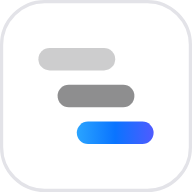
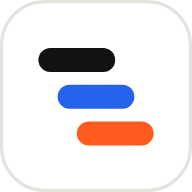
[site] New brand on the landing page: Satoshi Black 'Rundown', the Steps mark in ink, cobalt and orange; orange highlights and buttons, cobalt links, the hero's three agents in the step colours; brand/ and site/img rebuilt

Changed region(s): [[0.375, 0.625, 0.8125, 0.7812], [0.2812, 0.4375, 0.7188, 0.5938], [0.1875, 0.25, 0.625, 0.375]]

diff --git a/site/index.html b/site/index.html
@@ -11,24 +11,24 @@
 <meta property="og:description" content="Let the agents work. Keep your brain in the loop.">
 <meta name="theme-color" content="#ffffff">
 <link rel="preconnect" href="https://api.fontshare.com">
-<link href="https://api.fontshare.com/v2/css?f[]=cabinet-grotesk@500,700,800&f[]=satoshi@1&display=swap" rel="stylesheet">
+<link href="https://api.fontshare.com/v2/css?f[]=satoshi@1&display=swap" rel="stylesheet">
 <style>
 :root {
   --claude: #d97757;   /* Claude orange, for the install section */
   --bg: #ffffff;
-  --alt: #f5f5f7;
-  --text: #1d1d1f;
+  --alt: #f7f7f4;
+  --text: #121214;
   --muted: #6e6e73;
   --faint: #a1a1a6;
-  --line: #e3e3e8;
-  --blue: #0071e3;
+  --line: #e4e4de;
+  --blue: #2563eb;     /* cobalt: links and focus */
+  --orange: #ff5b1f;   /* signal: the lead step, highlights and the main button */
   --cool: #b4c2d4;   /* unchanged file */
   --warm: #ff9f0a;   /* changed recently */
   --hot: #ff375f;    /* agent editing now */
-  --grad: linear-gradient(95deg, #2aa4ff 0%, #0a74ff 50%, #4f5bff 100%);  /* brand blue */
   --risk: #d93025;
   --nvidia: #76b900;
-  --display: "Cabinet Grotesk", -apple-system, system-ui, sans-serif;
+  --display: "Satoshi", -apple-system, system-ui, sans-serif;
   --body: "Satoshi", -apple-system, system-ui, sans-serif;
   --mono: ui-monospace, "SF Mono", Menlo, monospace;
   --ease: cubic-bezier(.2, .7, .1, 1);
@@ -40,7 +40,7 @@ body {
   overflow-x: clip;
 }
 a { color: inherit; text-decoration: none; }
-h1, h2, h3 { font-family: var(--display); margin: 0; font-weight: 800; letter-spacing: -0.035em; }
+h1, h2, h3 { font-family: var(--display); margin: 0; font-weight: 900; letter-spacing: -0.035em; }
 p { margin: 0; }
 h1, h2, h3 { text-wrap: balance; }
 .sub, p { text-wrap: pretty; }
@@ -58,7 +58,7 @@ nav {
   border-bottom: 1px solid rgba(0,0,0,.06);
 }
 nav .wrap { display: flex; align-items: center; height: 100%; gap: 28px; }
-.logo { display: flex; align-items: center; gap: 8px; font: 800 19px var(--display); letter-spacing: -0.02em; }
+.logo { display: flex; align-items: center; gap: 8px; font: 900 19px var(--display); letter-spacing: -0.02em; }
 .logo svg { width: 20px; height: 20px; }
 .logo svg.mark { width: auto; height: 22px; }
 nav .links { display: flex; gap: 26px; margin-left: auto; font-size: 13px; color: var(--muted); font-weight: 500; }
@@ -66,8 +66,8 @@ nav .links a:hover { color: var(--text); }
 
 /* ---------- buttons ---------- */
 .btns { display: flex; justify-content: center; flex-wrap: wrap; gap: 14px 28px; align-items: center; margin-top: 40px; }
-.btn { background: var(--blue); color: #fff; padding: 12px 24px; border-radius: 999px; font-weight: 500; font-size: 17px; transition: background .2s; }
-.btn:hover { background: #0077ed; }
+.btn { background: var(--orange); color: var(--text); padding: 12px 24px; border-radius: 999px; font-weight: 600; font-size: 17px; transition: background .2s; }
+.btn:hover { background: #ff7440; }
 .btn.small { padding: 5px 14px; font-size: 13px; margin-left: 4px; }
 .more { color: var(--blue); font-size: 17px; font-weight: 500; }
 .more::after { content: " ›"; }
@@ -90,7 +90,7 @@ nav .links a:hover { color: var(--text); }
 .hero-type h1 .line { display: block; overflow: hidden; padding-bottom: .06em; }
 .hero-type h1 .line span { display: inline-block; transform: translateY(105%); animation: rise 1.2s var(--ease) forwards; }
 .hero-type h1 .line:nth-child(2) span { animation-delay: .12s; }
-.hero-type h1 .grad { background: var(--grad); -webkit-background-clip: text; background-clip: text; color: transparent; }
+.hero-type h1 .grad { color: var(--orange); }
 .hero-type p { font: 500 clamp(20px, 2.4vw, 28px)/1.3 var(--body); color: var(--muted); margin-top: 28px; opacity: 0; animation: fade 1s .6s var(--ease) forwards; }
 @keyframes rise { to { transform: none; } }
 @keyframes fade { to { opacity: 1; } }
@@ -102,7 +102,7 @@ nav .links a:hover { color: var(--text); }
 .hero-end .said { font-size: clamp(17px, 1.7vw, 20px); color: var(--muted); font-weight: 500; margin-top: 14px; }
 .hcap {
   position: absolute; left: 0; right: 0; bottom: 13vh; padding: 0 24px; text-align: center; pointer-events: none; opacity: 0;
-  font: 800 clamp(30px, 4.6vw, 60px)/1.05 var(--display); letter-spacing: -0.035em; text-wrap: balance;
+  font: 900 clamp(30px, 4.6vw, 60px)/1.05 var(--display); letter-spacing: -0.035em; text-wrap: balance;
   text-shadow: 0 0 18px #fff, 0 0 36px #fff, 0 0 8px #fff; will-change: opacity, transform;
 }
 .legend { display: flex; justify-content: center; gap: 22px; margin-top: 22px; font-size: 14px; color: var(--muted); font-weight: 500; flex-wrap: wrap; }
@@ -112,8 +112,8 @@ nav .links a:hover { color: var(--text); }
 #stats { padding: 88px 0 80px; text-align: center; }
 .stats-head { font-size: clamp(34px, 4.8vw, 64px); line-height: 1; }
 .stats3 { display: grid; grid-template-columns: repeat(3, 1fr); gap: 56px; margin-top: 52px; }
-.stat3 .n { font: 800 clamp(56px, 6.4vw, 84px)/1 var(--display); letter-spacing: -0.045em; white-space: nowrap; }
-.stat3 .n.warm { background: var(--grad); -webkit-background-clip: text; background-clip: text; color: transparent; }
+.stat3 .n { font: 900 clamp(56px, 6.4vw, 84px)/1 var(--display); letter-spacing: -0.045em; white-space: nowrap; }
+.stat3 .n.warm { color: var(--orange); }
 .stat3 p { color: var(--muted); font-size: 19px; font-weight: 500; margin: 14px auto 0; max-width: 22ch; }
 .stat3 p b { color: var(--text); font-weight: 500; }
 .study { display: block; margin: 20px auto 0; padding-top: 14px; border-top: 1px solid var(--line); max-width: 30ch; font-size: 13.5px; line-height: 1.4; color: var(--muted); font-weight: 500; }
@@ -128,7 +128,7 @@ nav .links a:hover { color: var(--text); }
   max-width: 92vw;
 }
 .ask-pill .q { width: 34px; height: 34px; border-radius: 50%; background: linear-gradient(135deg, var(--warm), var(--hot)); flex: none; }
-.caret { display: inline-block; width: 2px; height: 1.1em; background: var(--blue); vertical-align: -0.15em; margin-left: 2px; animation: blink 1s steps(1) infinite; }
+.caret { display: inline-block; width: 2px; height: 1.1em; background: var(--orange); vertical-align: -0.15em; margin-left: 2px; animation: blink 1s steps(1) infinite; }
 @keyframes blink { 50% { opacity: 0; } }
 
 /* tasks: one agent's work outside code, as a track of stops with a window */
@@ -158,7 +158,7 @@ nav .links a:hover { color: var(--text); }
 .tk-line li.fail b { color: var(--risk); }
 .tk-line li.fail.on::before { background: var(--risk); animation: tk-err 1.4s ease-out 1; }
 @keyframes tk-err { 0% { box-shadow: 0 0 0 0 rgba(217,48,37,.55); } 100% { box-shadow: 0 0 0 14px rgba(217,48,37,0); } }
-.tk-agent { position: absolute; left: 6px; top: 0; width: 16px; height: 16px; border-radius: 50%; background: var(--blue); box-shadow: 0 0 0 5px rgba(0,113,227,.18); transition: top .5s var(--ease), background .3s, box-shadow .3s; z-index: 1; pointer-events: none; }
+.tk-agent { position: absolute; left: 6px; top: 0; width: 16px; height: 16px; border-radius: 50%; background: var(--blue); box-shadow: 0 0 0 5px rgba(37,99,235,.18); transition: top .5s var(--ease), background .3s, box-shadow .3s; z-index: 1; pointer-events: none; }
 .tk-agent.err { background: var(--risk); box-shadow: 0 0 0 5px rgba(217,48,37,.2); }
 
 .tk-win { background: #fff; border-radius: 20px; overflow: hidden; box-shadow: 0 1px 2px rgba(0,0,0,.04), 0 30px 80px -30px rgba(0,0,0,.22); transition: box-shadow .3s; }
@@ -205,7 +205,7 @@ nav .links a:hover { color: var(--text); }
 .web { flex: 1; background: #fff; display: flex; flex-direction: column; }
 .web .url { margin: 12px 14px 0; padding: 7px 14px; border-radius: 999px; background: #f0f0f3; font: 13px var(--mono); color: var(--muted); }
 .web .doc { padding: 22px 30px; }
-.web h4 { margin: 0; font: 800 26px/1.1 var(--display); letter-spacing: -0.02em; }
+.web h4 { margin: 0; font: 900 26px/1.1 var(--display); letter-spacing: -0.02em; }
 .web p { margin-top: 10px; color: var(--muted); font-size: 14.5px; max-width: 46ch; }
 .web .hl { background: #eeeefe; border-left: 3px solid #5b5bd6; padding: 10px 14px; margin-top: 14px; border-radius: 4px; color: var(--text); font: 13px/1.6 var(--mono); }
 
@@ -263,7 +263,7 @@ nav .links a:hover { color: var(--text); }
 .why3 p { color: #a1a1a6; margin-top: 10px; font-weight: 500; }
 .nums { display: grid; grid-template-columns: repeat(3, 1fr); gap: 64px 48px; margin-top: 110px; }
 .nums:empty { display: none; }
-.num .v { font: 800 clamp(48px, 5.5vw, 76px)/1 var(--display); letter-spacing: -0.045em; color: var(--nvidia); }
+.num .v { font: 900 clamp(48px, 5.5vw, 76px)/1 var(--display); letter-spacing: -0.045em; color: var(--nvidia); }
 .num .k { color: #a1a1a6; font-weight: 500; margin-top: 12px; }
 .brev-foot { margin-top: 80px; display: flex; justify-content: center; flex-wrap: wrap; gap: 10px 28px; font-size: 14px; color: #86868b; font-weight: 500; }
 .brev-foot a { color: var(--nvidia); }
@@ -277,7 +277,7 @@ html { scroll-padding-top: 96px; }
 .wl-mini { display: flex; align-items: center; gap: 8px; }
 .wl-mini input { width: 190px; height: 26px; border: 1px solid #d2d2d7; border-radius: 999px; padding: 0 12px; background: #fff; color: var(--text); font: 500 13px var(--body); outline: none; transition: border-color .2s, box-shadow .2s; }
 .wl-mini input::placeholder { color: var(--faint); }
-.wl-mini input:focus { border-color: var(--blue); box-shadow: 0 0 0 3px rgba(0,113,227,.15); }
+.wl-mini input:focus { border-color: var(--blue); box-shadow: 0 0 0 3px rgba(37,99,235,.15); }
 .wl-mini button { border: 0; background: none; padding: 0; color: var(--blue); font: 600 13.5px var(--body); cursor: pointer; white-space: nowrap; }
 .wl-mini button::after { content: " ›"; }
 .wl-mini button:hover { text-decoration: underline; }
@@ -291,14 +291,14 @@ nav { top: 40px; }
 
 /* roadmap */
 .road { position: relative; display: grid; grid-template-columns: repeat(3, 1fr); gap: 56px; margin-top: 72px; text-align: left; }
-.road::before { content: ""; position: absolute; left: 0; right: 0; top: 7px; height: 2px; background: linear-gradient(90deg, var(--text) 0 20%, #2aa4ff 45%, #4f5bff 60%, var(--line) 85%); }
+.road::before { content: ""; position: absolute; left: 0; right: 0; top: 7px; height: 2px; background: linear-gradient(90deg, var(--text) 0 20%, var(--blue) 42%, var(--orange) 62%, var(--line) 85%); }
 .road > div { position: relative; }
 .road .dot { display: block; position: relative; z-index: 1; width: 16px; height: 16px; border-radius: 50%; background: #fff; border: 2px solid var(--line); box-sizing: border-box; }
 .road .now .dot { background: var(--text); border-color: var(--text); }
-.road .next .dot { background: #0a74ff; border-color: #0a74ff; animation: road-pulse 2.2s ease-out infinite; }
-@keyframes road-pulse { 0% { box-shadow: 0 0 0 0 rgba(10,116,255,.45); } 100% { box-shadow: 0 0 0 16px rgba(10,116,255,0); } }
+.road .next .dot { background: var(--orange); border-color: var(--orange); animation: road-pulse 2.2s ease-out infinite; }
+@keyframes road-pulse { 0% { box-shadow: 0 0 0 0 rgba(255,91,31,.45); } 100% { box-shadow: 0 0 0 16px rgba(255,91,31,0); } }
 .road h3 { font-size: clamp(28px, 3vw, 38px); margin-top: 26px; letter-spacing: -0.03em; }
-.road .next h3 { background: var(--grad); -webkit-background-clip: text; background-clip: text; color: transparent; }
+.road .next h3 { color: var(--orange); }
 .road .when { color: var(--muted); font-weight: 500; margin-top: 4px; }
 .road ul { list-style: none; margin: 22px 0 0; padding: 0; }
 .road li { padding: 12px 0; border-top: 1px solid var(--line); font-weight: 500; line-height: 1.4; }
@@ -308,8 +308,8 @@ nav { top: 40px; }
 .road li small a::after { content: " ›"; }
 .wl-big { display: flex; justify-content: center; gap: 10px; margin: 96px auto 0; max-width: 520px; }
 .wl-big input { flex: 1; min-width: 0; height: 52px; border: 1px solid var(--line); border-radius: 999px; padding: 0 22px; font: 500 17px var(--body); background: #fff; outline: none; transition: border-color .2s, box-shadow .2s; }
-.wl-big input:focus { border-color: var(--blue); box-shadow: 0 0 0 4px rgba(0,113,227,.15); }
-.wl-big .btn { border: 0; cursor: pointer; font-family: var(--body); background: var(--grad); }
+.wl-big input:focus { border-color: var(--blue); box-shadow: 0 0 0 4px rgba(37,99,235,.15); }
+.wl-big .btn { border: 0; cursor: pointer; font-family: var(--body); background: var(--orange); }
 .wl-note { margin-top: 16px; color: var(--muted); font-size: 14px; font-weight: 500; }
 .wl-big + .wl-note:empty { display: none; }
 
@@ -320,7 +320,7 @@ nav { top: 40px; }
 .closing { padding: 160px 0 150px; }
 .closing h2 { font-size: clamp(52px, 9vw, 140px); line-height: .92; letter-spacing: -0.05em; }
 .closing h2 span { display: block; }
-.closing h2 .grad { background: var(--grad); -webkit-background-clip: text; background-clip: text; color: transparent; }
+.closing h2 .grad { color: var(--orange); }
 .closing .btns { margin-top: 56px; }
 .btn.big { font-size: 20px; padding: 17px 36px; }
 .btn.pending { opacity: .5; pointer-events: none; }
@@ -348,7 +348,7 @@ footer a:hover { text-decoration: underline; }
   .wl-mini, .has-waitlist .band .dim { display: none; }
   .has-waitlist .band-link { display: inline; }
   .road { grid-template-columns: 1fr; gap: 40px; margin-top: 64px; padding-left: 36px; }
-  .road::before { left: 7px; right: auto; top: 8px; bottom: 0; width: 2px; height: auto; background: linear-gradient(180deg, var(--text) 0 20%, #2aa4ff 40%, #4f5bff 60%, var(--line) 85%); }
+  .road::before { left: 7px; right: auto; top: 8px; bottom: 0; width: 2px; height: auto; background: linear-gradient(180deg, var(--text) 0 20%, var(--blue) 40%, var(--orange) 60%, var(--line) 85%); }
   .road .dot { position: absolute; left: -36px; top: 8px; }
   .road h3 { margin-top: 0; }
   .wl-big { flex-direction: column; margin-top: 64px; }
@@ -414,9 +414,9 @@ footer a:hover { text-decoration: underline; }
       <g stroke="#ffffff" stroke-opacity=".035"><path d="M70 0V250M140 0V250M420 0V250M490 0V250"/></g>
       <ellipse cx="275" cy="120" rx="210" ry="120" fill="url(#scGlow)"/>
       <rect x="140" y="38" width="270" height="160" rx="5" fill="#fbfbfd"/>
-      <text x="158" y="62" font-family="Cabinet Grotesk, system-ui, sans-serif" font-weight="800" font-size="13" fill="#1d1d1f">A live map of your agents</text>
+      <text x="158" y="62" font-family="Satoshi, system-ui, sans-serif" font-weight="900" font-size="13" fill="#121214">A live map of your agents</text>
       <g stroke="#c9ced9" stroke-width="1.2" fill="none"><path d="M180 110 214 94 250 120 292 100 330 132 366 112M214 94 226 150 270 164 330 132M180 110 196 158 226 150M292 100 302 150 270 164M366 112 380 160 330 132"/></g>
-      <path class="sc-trail" d="M196 158 C230 170 250 128 292 100 S350 126 366 112" fill="none" stroke="#0a84ff" stroke-width="2.4" stroke-linecap="round"/>
+      <path class="sc-trail" d="M196 158 C230 170 250 128 292 100 S350 126 366 112" fill="none" stroke="#ff5b1f" stroke-width="2.4" stroke-linecap="round"/>
       <g fill="#b4c2d4"><circle cx="180" cy="110" r="5"/><circle cx="214" cy="94" r="4"/><circle cx="250" cy="120" r="5"/><circle cx="226" cy="150" r="4"/><circle cx="302" cy="150" r="4"/><circle cx="380" cy="160" r="5"/><circle cx="270" cy="164" r="4"/></g>
       <g fill="#ff9f0a"><circle cx="196" cy="158" r="5"/><circle cx="292" cy="100" r="6"/><circle cx="330" cy="132" r="5"/></g>
       <circle class="sc-hot" cx="366" cy="112" r="6" fill="#ff375f"/><circle cx="366" cy="112" r="6" fill="#ff375f"/>
@@ -448,7 +448,7 @@ footer a:hover { text-decoration: underline; }
 <nav>
   <div class="wrap">
     <a class="logo" href="#hero" aria-label="Rundown">
-      <svg class="mark" viewBox="0 0 578.71 69.20" height="22" role="img" aria-label="Rundown"><defs><linearGradient id="rd-nav" x1="0" y1="0" x2="1" y2="0"><stop offset="0" stop-color="#2AA4FF"/><stop offset="0.5" stop-color="#0A74FF"/><stop offset="1" stop-color="#4F5BFF"/></linearGradient></defs><g transform="translate(-15.38 -23.07) scale(0.9612)"><rect x="16" y="24" width="58" height="16" rx="8" fill="currentColor" fill-opacity="0.22"/><rect x="31" y="52" width="58" height="16" rx="8" fill="currentColor" fill-opacity="0.5"/><rect x="46" y="80" width="58" height="16" rx="8" fill="url(#rd-nav)"/></g><path transform="translate(105.34 67.76)" fill="currentColor" d="M2.5872451171875 -50.2831806640625H20.8909658203125L23.8829658203125 -32.31357421875V0.0H5.896032226562499V-33.352021484375ZM47.396636718749996 -51.0575634765625V-35.69298046875Q44.8270625 -36.22098046875 42.4862646484375 -36.458581542968744Q40.145466796875 -36.696182617187496 38.227062499999995 -36.696182617187496Q34.284625976562495 -36.696182617187496 31.028604492187497 -35.13856005859375Q27.7725830078125 -33.5809375 25.8277744140625 -30.060910644531248Q23.8829658203125 -26.540883789062498 23.8829658203125 -20.680075195312497L20.450998046875 -24.939234374999998Q21.11978515625 -30.324830078124997 22.5189873046875 -35.156021484374996Q23.918189453125 -39.987212890624996 26.329396972656248 -43.709601074218746Q28.740604492187497 -47.431989257812496 32.3662109375 -49.5791806640625Q35.9918173828125 -51.7263720703125 41.1662109375 -51.7263720703125Q42.6622216796875 -51.7263720703125 44.24623242187499 -51.559169921875Q45.830243164062495 -51.3919677734375 47.396636718749996 -51.0575634765625ZM71.70241503906249 1.3903935546875Q64.68002148437499 1.3903935546875 59.69922900390624 -1.5048032226562498Q54.71843652343749 -4.3999999999999995 52.08723974609374 -9.706398925781249Q49.45604296874999 -15.0127978515625 49.45604296874999 -22.158404296875V-50.2831806640625H67.4429765625V-24.763169921874997Q67.4429765625 -19.1838818359375 70.16221093749999 -16.20943994140625Q72.88144531249999 -13.234998046874999 77.93271191406248 -13.234998046874999Q81.7167548828125 -13.234998046874999 84.29519140624998 -14.73982275390625Q86.87362792968749 -16.2446474609375 88.25525048828123 -19.15748828125Q89.636873046875 -22.0703291015625 89.636873046875 -26.1007763671875L95.18080859374999 -23.214404296875Q94.2128193359375 -15.2416171875 90.86002685546875 -9.7416171875Q87.507234375 -4.2416171875 82.57043115234374 -1.4256118164062501Q77.63362792968749 1.3903935546875 71.70241503906249 1.3903935546875ZM92.91045800781248 0.0 89.636873046875 -20.1167119140625V-50.2831806640625H107.62380664062499V-17.353552734375L110.89739160156249 0.0ZM112.58724511718748 -50.2831806640625H130.57417871093747L133.88296582031248 -30.16646875V0.0H115.89603222656248V-32.89442578125ZM152.3102216796875 -51.7263720703125Q159.5614130859375 -51.7263720703125 164.647806640625 -48.83117529296875Q169.7342001953125 -45.935978515624996 172.4357958984375 -40.647180664062496Q175.13739160156248 -35.3583828125 175.13739160156248 -28.124776367187497V0.0H157.1504580078125V-25.48480859375Q157.1504580078125 -31.1520966796875 154.29042578125 -34.12653857421875Q151.4303935546875 -37.100980468749995 146.0799248046875 -37.100980468749995Q142.34867968749998 -37.100980468749995 139.5942431640625 -35.5257568359375Q136.839806640625 -33.950533203125 135.36138623046872 -31.055293457031247Q133.88296582031248 -28.160053710937497 133.88296582031248 -24.182404296875L128.303828125 -27.0687763671875Q129.35981738281248 -35.129563476562495 132.7742109375 -40.61196240234375Q136.1886044921875 -46.094361328125 141.23980664062498 -48.91036669921875Q146.2910087890625 -51.7263720703125 152.3102216796875 -51.7263720703125ZM226.5648837890625 0.0 224.25929882812497 -18.8672021484375 227.33927734374998 -24.9743935546875 224.29450097656246 -32.753552734375 228.51847949218748 -67.75999999999999H247.1742001953125L241.99982812499996 -26.5055634765625L245.18540234374996 0.0ZM230.43686230468748 -25.11519140625Q229.24004296874998 -17.124797851562498 225.60563330078122 -11.149601074218749Q221.97122363281247 -5.174404296875 216.34802148437495 -1.8656064453125Q210.72481933593747 1.44319140625 203.61442578124996 1.44319140625Q196.2576279296875 1.44319140625 190.65202685546873 -1.8832075195312499Q185.04642578124998 -5.2096064453125 181.90482470703122 -11.211202148437499Q178.76322363281247 -17.2127978515625 178.76322363281247 -25.11519140625Q178.76322363281247 -33.1055849609375 181.90482470703122 -39.08957958984375Q185.04642578124998 -45.07357421875 190.65202685546873 -48.399973144531245Q196.2576279296875 -51.7263720703125 203.61442578124996 -51.7263720703125Q210.72481933593747 -51.7263720703125 216.34802148437495 -48.44397314453125Q221.97122363281247 -45.16157421875 225.6496333007812 -39.203978515624996Q229.32804296874997 -33.246382812499995 230.43686230468748 -25.11519140625ZM196.92615722656248 -25.11519140625Q196.92615722656248 -21.366339843749998 198.46617871093747 -18.488701171875Q200.0062001953125 -15.6110625 202.74303564453123 -13.956642089843749Q205.47987109374998 -12.302221679687499 209.03511621093747 -12.302221679687499Q212.678361328125 -12.302221679687499 215.9343935546875 -13.956642089843749Q219.19042578124998 -15.6110625 221.68085156249998 -18.488701171875Q224.17127734374998 -21.366339843749998 225.38570312499996 -25.11519140625Q224.17127734374998 -28.86404296875 221.68085156249998 -31.768080566406248Q219.19042578124998 -34.672118164062496 215.9343935546875 -36.326538574218745Q212.678361328125 -37.980958984375 209.03511621093747 -37.980958984375Q205.47987109374998 -37.980958984375 202.74303564453123 -36.326538574218745Q200.0062001953125 -34.672118164062496 198.46617871093747 -31.768080566406248Q196.92615722656248 -28.86404296875 196.92615722656248 -25.11519140625ZM280.0780140830592 1.44319140625Q270.44157421874996 1.44319140625 263.19919140624995 -1.8832075195312499Q255.95680859374997 -5.2096064453125 251.91761718749996 -11.219351012987337Q247.87842578124997 -17.229095580662175 247.87842578124997 -25.12249143074256Q247.87842578124997 -33.1055849609375 251.91761718749996 -39.08957958984375Q255.95680859374997 -45.07357421875 263.20752790912826 -48.399973144531245Q270.4582472245065 -51.7263720703125 280.09468708881576 -51.7263720703125Q289.731126953125 -51.7263720703125 296.97350976562495 -48.399973144531245Q304.21589257812496 -45.07357421875 308.255083984375 -39.09698832062752Q312.294275390625 -33.12040242250504 312.294275390625 -25.12166340095766Q312.294275390625 -17.2127978515625 308.255083984375 -11.211202148437499Q304.21589257812496 -5.2096064453125 296.9651732627467 -1.8832075195312499Q289.7144539473684 1.44319140625 280.0780140830592 1.44319140625ZM280.096829548843 -11.9150302734375Q284.5216064453125 -11.9150302734375 287.6456494140625 -13.499051757812499Q290.7696923828125 -15.0830732421875 292.45051708984374 -18.05176127032844Q294.13134179687495 -21.020449298469387 294.13134179687495 -25.11519140625Q294.13134179687495 -29.286436523437498 292.45051708984374 -32.243271972656245Q290.7696923828125 -35.200107421874996 287.6456494140625 -36.78412890625Q284.5216064453125 -38.368150390625 280.096829548843 -38.368150390625Q275.7390947265625 -38.368150390625 272.5710517578125 -36.78412890625Q269.4030087890625 -35.200107421874996 267.7221840820312 -32.243271972656245Q266.04135937499996 -29.286436523437498 266.04135937499996 -25.14159033203125Q266.04135937499996 -20.996744140624997 267.7221840820312 -18.039908691406247Q269.4030087890625 -15.0830732421875 272.5710517578125 -13.499051757812499Q275.7390947265625 -11.9150302734375 280.096829548843 -11.9150302734375ZM384.96470117187494 -10.119828125H379.3855634765624L393.58888378906244 -50.2831806640625H411.5758173828125L392.77896582031246 0.0H374.42243652343745L358.67036132812495 -41.712118164062495H364.68949902343746L348.7614130859375 0.0H330.40488378906247L311.64323437499996 -50.2831806640625H329.70057226562494L343.9390947265625 -10.119828125H338.25435058593746L353.12644726562496 -50.2831806640625H370.268615234375ZM410.81924511718745 -50.2831806640625H428.80617871093744L432.1149658203125 -30.16646875V0.0H414.1280322265625V-32.89442578125ZM450.5422216796875 -51.7263720703125Q457.79341308593746 -51.7263720703125 462.87980664062496 -48.83117529296875Q467.96620019531247 -45.935978515624996 470.6677958984375 -40.647180664062496Q473.3693916015625 -35.3583828125 473.3693916015625 -28.124776367187497V0.0H455.3824580078125V-25.48480859375Q455.3824580078125 -31.1520966796875 452.52242578125 -34.12653857421875Q449.66239355468747 -37.100980468749995 444.31192480468746 -37.100980468749995Q440.5806796875 -37.100980468749995 437.8262431640625 -35.5257568359375Q435.07180664062497 -33.950533203125 433.5933862304687 -31.055293457031247Q432.1149658203125 -28.160053710937497 432.1149658203125 -24.182404296875L426.53582812499997 -27.0687763671875Q427.59181738281245 -35.129563476562495 431.0062109375 -40.61196240234375Q434.42060449218746 -46.094361328125 439.471806640625 -48.91036669921875Q444.5230087890625 -51.7263720703125 450.5422216796875 -51.7263720703125Z"/></svg>
+      <svg class="mark" viewBox="0 0 473.78 67.50" height="22" role="img" aria-label="Rundown"><g transform="translate(-15.00 -22.50) scale(0.9374)"><rect x="16" y="24" width="58" height="16" rx="8" fill="currentColor"/><rect x="31" y="52" width="58" height="16" rx="8" fill="#2563EB"/><rect x="46" y="80" width="58" height="16" rx="8" fill="#FF5B1F"/></g><path transform="translate(93.27 66.35)" fill="currentColor" d="M21.032 0.0H6.776V-65.11999999999999H31.944Q43.824 -65.11999999999999 50.292 -59.61999999999999Q56.76 -54.12 56.76 -44.0Q56.76 -31.415999999999997 45.936 -25.872L57.376 0.0H41.8L32.032 -22.791999999999998H21.032ZM21.032 -52.448V-35.288H31.855999999999998Q36.519999999999996 -35.288 39.116 -37.57599999999999Q41.711999999999996 -39.864 41.711999999999996 -44.0Q41.711999999999996 -48.135999999999996 39.20399999999999 -50.292Q36.696 -52.448 31.944 -52.448ZM91.78399999999999 -44.0H105.336V0.0H92.576L91.696 -4.928Q89.672 -2.1999999999999997 85.93199999999999 -0.5279999999999999Q82.192 1.144 78.232 1.144Q70.752 1.144 66.396 -3.564Q62.04 -8.272 62.04 -16.368V-44.0H75.592V-21.296Q75.592 -15.927999999999999 77.52799999999999 -13.419999999999998Q79.464 -10.911999999999999 83.6 -10.911999999999999Q87.91199999999999 -10.911999999999999 89.84799999999998 -13.288Q91.78399999999999 -15.664 91.78399999999999 -21.119999999999997ZM126.01599999999999 0.0H112.464V-44.0H125.22399999999999L126.104 -39.424Q130.416 -45.407999999999994 139.56799999999998 -45.407999999999994Q147.4 -45.407999999999994 151.756 -40.611999999999995Q156.112 -35.815999999999995 156.112 -27.192V0.0H142.56V-23.936Q142.56 -28.072 140.448 -30.58Q138.336 -33.088 134.816 -33.088Q130.768 -33.088 128.392 -30.668Q126.01599999999999 -28.247999999999998 126.01599999999999 -24.112ZM181.192 1.144Q171.688 1.144 166.012 -5.103999999999999Q160.336 -11.351999999999999 160.336 -21.735999999999997Q160.336 -32.296 166.23200000000003 -38.852Q172.12800000000001 -45.407999999999994 182.072 -45.407999999999994Q186.12 -45.407999999999994 189.728 -43.91199999999999Q193.336 -42.416 195.272 -39.952V-66.35199999999999H208.824V0.0H196.064L195.36 -5.632Q193.6 -2.552 189.728 -0.7040000000000001Q185.856 1.144 181.192 1.144ZM176.836 -14.299999999999999Q179.696 -11.264 184.44799999999998 -11.264Q189.2 -11.264 192.192 -14.299999999999999Q195.184 -17.336 195.184 -22.264Q195.184 -27.192 192.192 -30.227999999999998Q189.2 -33.263999999999996 184.44799999999998 -33.263999999999996Q179.696 -33.263999999999996 176.836 -30.227999999999998Q173.976 -27.192 173.976 -22.264Q173.976 -17.336 176.836 -14.299999999999999ZM237.864 -45.32Q248.424 -45.32 255.24400000000003 -38.896Q262.064 -32.472 262.064 -22.087999999999997Q262.064 -11.792 255.24400000000003 -5.368Q248.424 1.056 237.864 1.056Q227.216 1.056 220.39600000000002 -5.324Q213.57600000000002 -11.703999999999999 213.57600000000002 -22.088Q213.57600000000002 -32.472 220.39600000000002 -38.896Q227.216 -45.32 237.864 -45.32ZM227.216 -22.176Q227.216 -17.16 230.16400000000002 -14.123999999999999Q233.11200000000002 -11.088 237.864 -11.088Q242.52800000000002 -11.088 245.476 -14.123999999999999Q248.424 -17.16 248.424 -22.176Q248.424 -27.104 245.476 -30.139999999999997Q242.52800000000002 -33.175999999999995 237.864 -33.175999999999995Q233.11200000000002 -33.175999999999995 230.16400000000002 -30.139999999999997Q227.216 -27.104 227.216 -22.176ZM276.76 0.0 262.592 -44.0H276.848L280.89599999999996 -29.656Q282.568 -23.496 283.62399999999997 -17.16Q284.50399999999996 -22.439999999999998 286.792 -29.656L291.28 -44.0H305.18399999999997L309.32 -29.656Q311.52 -22.087999999999997 312.312 -17.16Q312.928 -20.68 315.392 -29.656L319.616 -44.0H333.96L318.56 0.0H305.976L301.752 -13.991999999999999Q298.76 -23.671999999999997 298.144 -28.247999999999998Q297.352 -24.2 294.18399999999997 -13.728L289.96 0.0ZM350.416 0.0H336.864V-44.0H349.62399999999997L350.504 -39.424Q354.816 -45.407999999999994 363.96799999999996 -45.407999999999994Q371.8 -45.407999999999994 376.156 -40.611999999999995Q380.512 -35.815999999999995 380.512 -27.192V0.0H366.96V-23.936Q366.96 -28.072 364.84799999999996 -30.58Q362.736 -33.088 359.216 -33.088Q355.168 -33.088 352.79200000000003 -30.668Q350.416 -28.247999999999998 350.416 -24.112Z"/></svg>
     </a>
     <div class="links">
       <a href="#tasks">Beyond code</a>
@@ -765,9 +765,9 @@ const hero = (() => {
   const cv = $("#map"), ctx = cv.getContext("2d");
   const COOL = [180, 194, 212], WARM = [255, 159, 10], HOT = [255, 55, 95];
   const AG = [
-    { name: "Coding agent", col: [10, 132, 255], swoop: [.06, .34], end: .74 },
-    { name: "Research agent", col: [191, 90, 242], swoop: [.24, .34], end: .76 },
-    { name: "Video agent", col: [48, 176, 199], swoop: [.255, .34], end: .78 },
+    { name: "Coding agent", col: [255, 91, 31], swoop: [.06, .34], end: .74 },
+    { name: "Research agent", col: [37, 99, 235], swoop: [.24, .34], end: .76 },
+    { name: "Video agent", col: [18, 18, 20], swoop: [.255, .34], end: .78 },
   ];
   const PS = .34;                                   // the moment all three run side by side
   const MAP_IN = .42;                               // about when they reach the map

diff --git a/docs/build-log.md b/docs/build-log.md
@@ -183,6 +183,7 @@ One line per milestone: `HH:MM [agent] what happened`. Newest at the bottom.
 - 08:30 (6 Oct) [mapper, listener] More of a project on the map: C/C++ variants (cxx, hh, CUDA, Arduino), Zig, Haskell, OCaml, Clojure, Erlang, R, Julia, Perl, PowerShell, shells, TOML/YAML, protobuf, GraphQL, Terraform, Nix, Gradle, and Dockerfile, Makefile, CMakeLists.txt and other files known by name; C/C++ `#include` lines and Vue/Svelte/Astro script imports are import lines. Files an agent changes through a shell command (sed -i, a Python script, a redirect, mv, rm) are edits of its thread now, for Claude Code and Codex: from the command in history, with the diff the mapper saw live (`listener/command-writes.ts`, `command-edits.ts`, `line-diff.ts`; the mapper keeps compressed copies of the files it maps). On the real Codex logs: the dev_portfolio refactor thread went from "Changed no files" to 2. 119/119 server tests.
 
 - 09:20 (6 Oct) [codex] A subagent Codex starts is part of its parent's thread (its steps as a subagent's, like Claude Code's); a command answered after a restart keeps its call (the file is scanned once); log sources have a version, and a new Codex reader reads Codex's threads again from the start. On this machine almost every Codex "subagent" is an approval reviewer (hidden); 3 real ones. 122/122 server tests.
+- 12:45 (6 Oct) [site] New brand on the landing page: Satoshi Black with a capital R ("Rundown"), the Steps mark in ink, cobalt (#2563EB) and orange (#FF5B1F) on paper (#F7F7F4). Headings in Satoshi, highlighted words and the main buttons orange (ink text: white on this orange is only 3:1), links cobalt, the hero's three agents drawn in the three step colours. brand/ (SVGs, PNGs 16 to 1024) and site/img rebuilt; the app still has the blue logo.
 
 ## Requests
 
